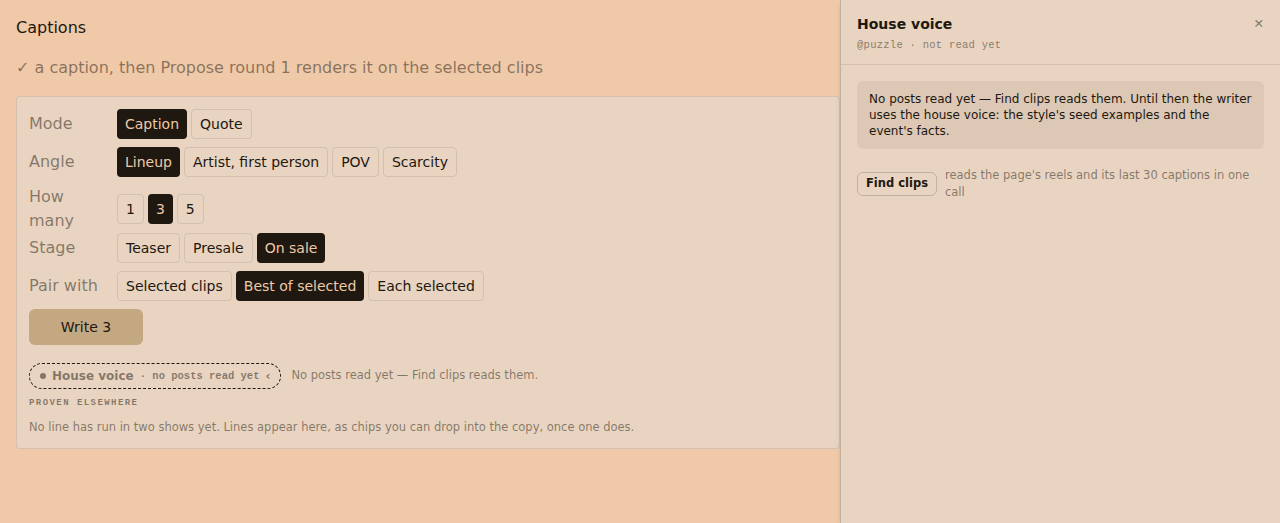
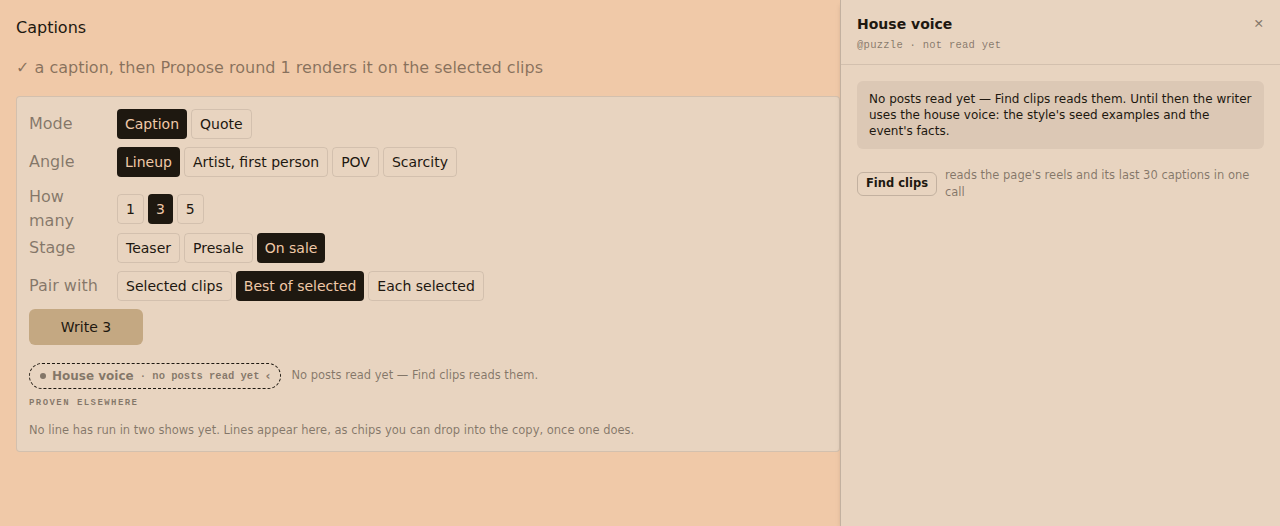
Grow the open voice frames by the three pixels that were added.

diff --git a/docs/session-logs/pr-1148-cursor-rail-3.md b/docs/session-logs/pr-1148-cursor-rail-3.md
@@ -40,4 +40,4 @@ Round 3: the 10px / 12px above Proven elsewhere is the block's own padding, and 
 
 Round 4: that 10px is added, not taken from the line spacing. The label keeps 3px under its glyphs, so the line below stays 16px, and the wrapped voice line keeps a 13px row gap, so the chip-to-line gap stays 12px. CLV2-1280 grows by 6px and CLV3-1280 by 3px. Ubuntu pair 42820102839 / 42820114265.
 
-Round 5: those two wide gaps were still 3px short of the record, so the label keeps 6px under its glyphs and the wrapped line keeps a 16px row gap. CLV2-1280 grows by another 6px and CLV3-1280 by another 3px. The 393 frames stay on the round-4 spacing.
+Round 5: those two wide gaps were still 3px short of the record, so the label keeps 6px under its glyphs and the wrapped line keeps a 16px row gap. CLV2-1280 grows by another 6px (1280×1046 → 1280×1052) and CLV3-1280 by another 3px (1280×523 → 1280×526). The 393 frames stay on the round-4 spacing. Ubuntu pair 42823927216 / 42823939216, both 0. CLV1, CLV4 and both 393 frames are unchanged.
